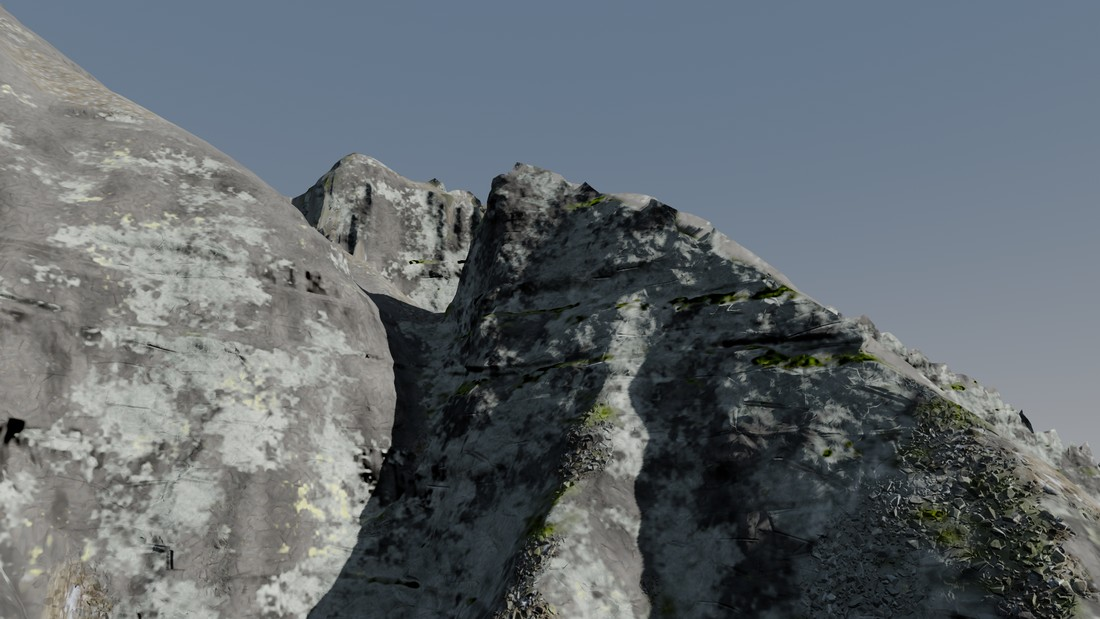
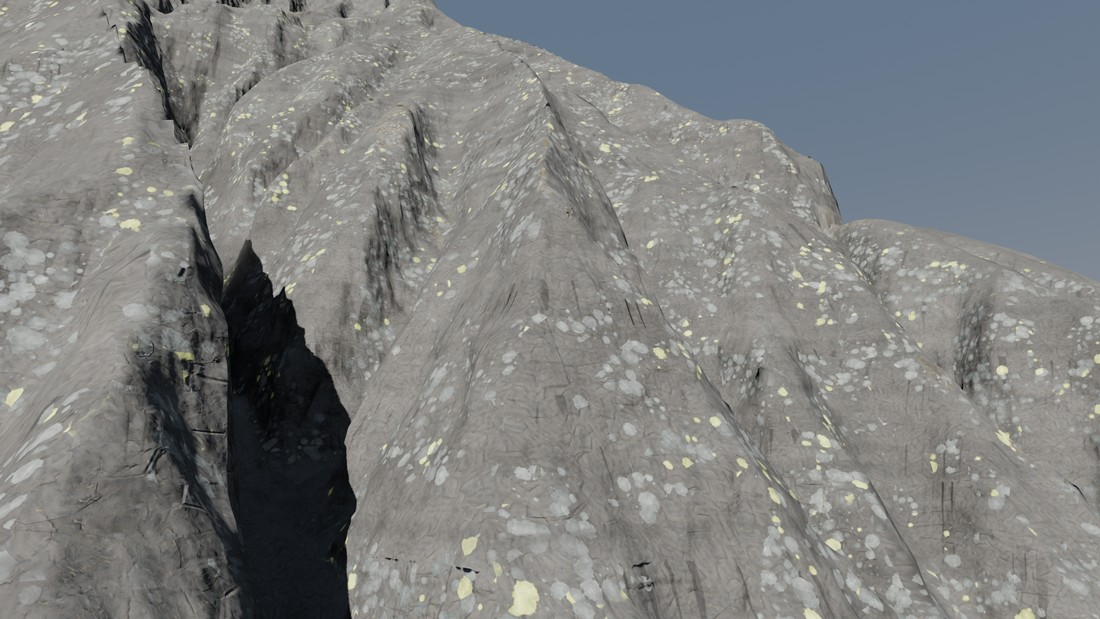
site: replace face weathering image
Claude-Session: https://claude.ai/code/session_019a7Xd2PZ5gvYQ3NZ7og5rU

diff --git a/site/content/features/terrain.md b/site/content/features/terrain.md
@@ -143,9 +143,9 @@ summary: "Mountain ranges raised and eroded per seed, with geology, river networ
 
   *Ground material: rock on crests and cliffs, grass and soil on the slopes, a sand beach at the coast, all from the generator's geology.*
 
-  ![Weathered rock faces under a clear sky, lichen patches and moss along the beds, raster](media/terrain-face-weathering.jpg)
+  ![A sunlit rock face under a clear sky, lichen colonies and seep stripes down its gullies, raster](media/terrain-face-weathering.jpg)
 
-  *Face weathering: pale lichen on the open face, moss along the bedding ledges in the shade.*
+  *Face weathering: grey and yellow lichen colonies on a sunlit face, dark seep stripes down its gullies.*
 
   ![The same bare rock slope at 2 m without and with scanned detail, raster](media/terrain-ground-scan.jpg)
 
